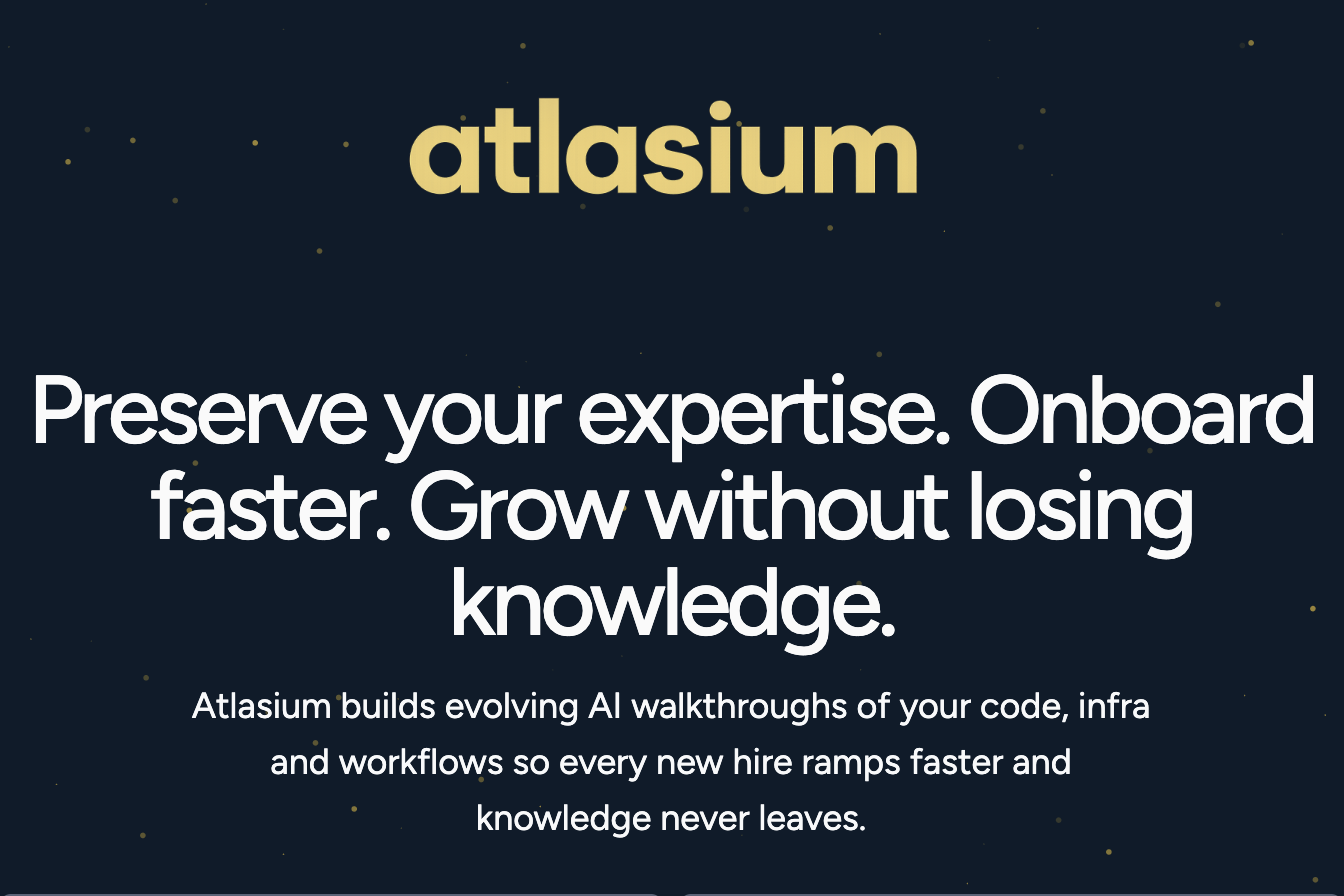
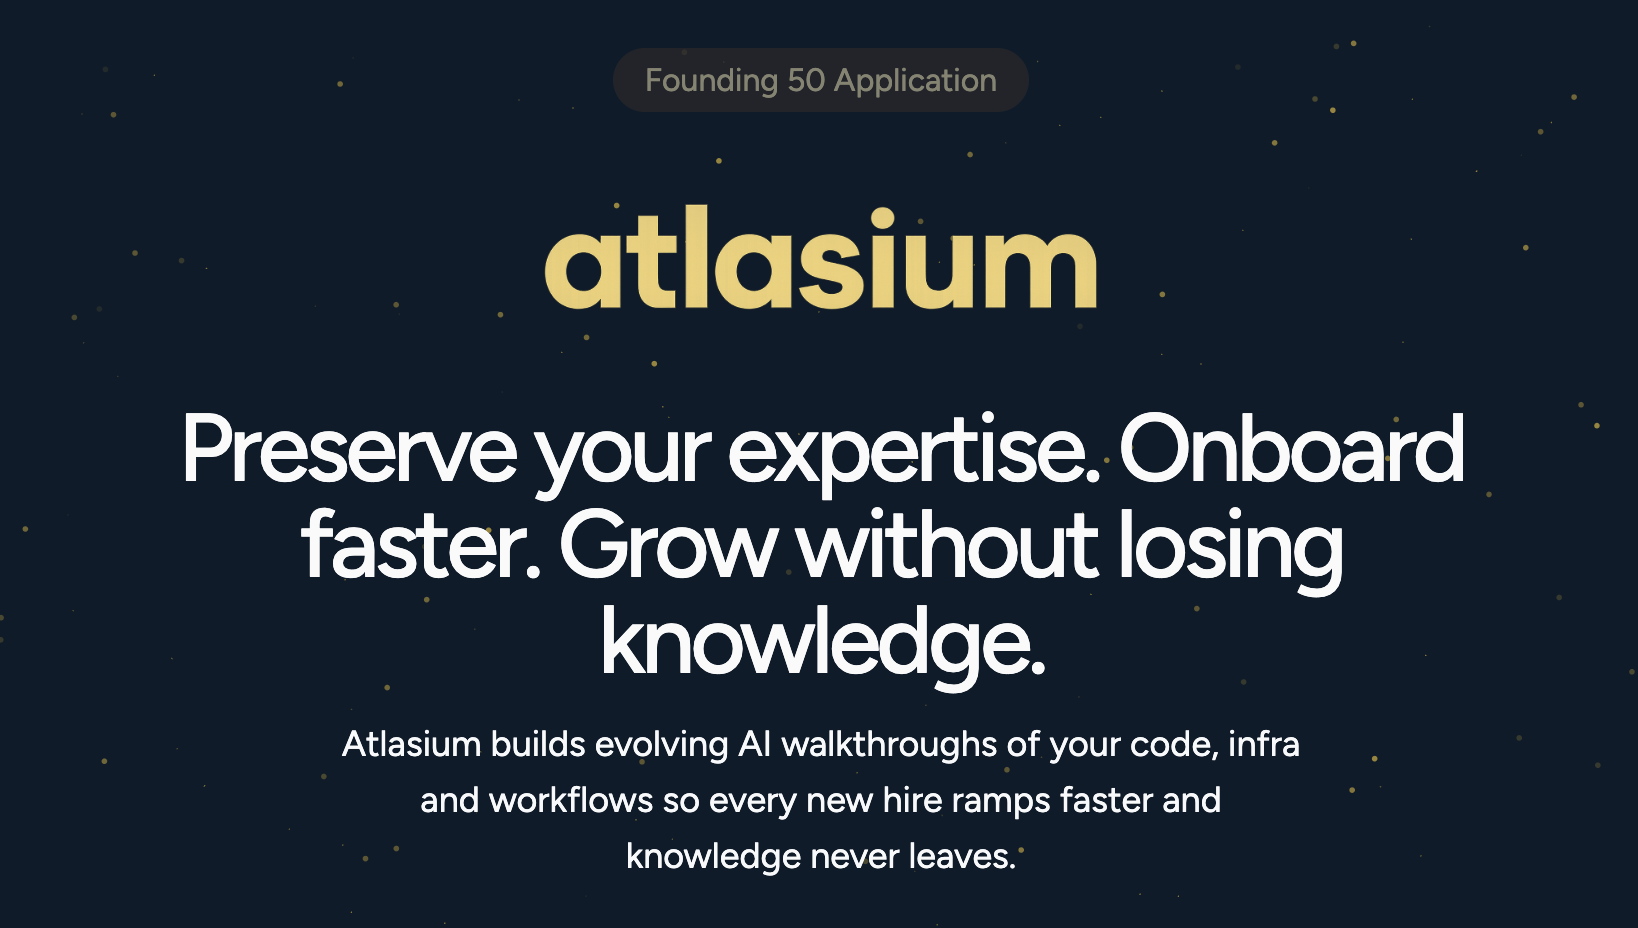
feat: update media

diff --git a/lib/metadata.ts b/lib/metadata.ts
@@ -1,8 +1,8 @@
 import type { Metadata } from "next";
 
 export const constructMetadata = ({
-  title = "Atlasium — AI Onboarding & Knowledge Platform",
-  description = "Atlasium preserves company expertise with proactive AI walkthroughs of codebases, infra, and workflows. Every new hire ramps faster, knowledge never leaves.",
+  title = "Atlasium | AI Onboarding Platform to Preserve Expertise & Ramp Engineers Faster",
+  description = "Atlasium transforms onboarding with evolving AI walkthroughs of your codebase, infrastructure, and workflows. Every new hire ramps faster, expertise stays preserved, and your team keeps moving forward without losing knowledge.",
   image = "/atlasium-opengraph-image.png",
   icons = "/favicon.ico",
   noIndex = false,

diff --git a/components/cta.tsx b/components/cta.tsx
@@ -23,11 +23,11 @@ export default function CTA() {
       <motion.img
         src="/atlasium-modern-transparent-logo.png"
         alt="Atlasium logo"
-        className="mx-auto h-48 w-auto"
+        className="mx-auto my-8 h-16 w-auto"
         variants={itemVariants}
       />
 
-            <motion.div variants={itemVariants}>
+      <motion.div variants={itemVariants}>
         <TextBlur
           className="text-center text-3xl font-medium tracking-tighter sm:text-5xl"
           text="Preserve your expertise. Onboard faster. Grow without losing knowledge."
